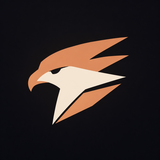
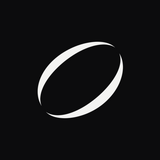
Refine Auren identity with a minimal monochrome orbit

Changed region(s): [[0.1562, 0.2188, 0.8125, 0.7812]]

diff --git a/android/app/src/main/assets/index.html b/android/app/src/main/assets/index.html
@@ -467,7 +467,7 @@
       </section>
       <small id="settingsStatus" role="status"
         >Los ajustes se guardan en este teléfono.</small
-      ><small class="version">Auren · 2.7</small>
+      ><small class="version">Auren · 2.7.1</small>
     </dialog>
     <dialog
       id="modelPicker"

diff --git a/android/branding/README.md b/android/branding/README.md
@@ -1,12 +1,16 @@
 # Auren
 
-Icono original de halcón geométrico, cobre y marfil sobre tinta oscura. El diseño anterior de cintas se descartó a petición del usuario.
+Identidad minimalista de órbita abierta: dos arcos blancos afinados sobre negro carbón. La referencia de estilo elegida por el usuario fue la sencillez monocroma de Grok. El emblema mantiene una construcción propia, sin la barra diagonal de ese logotipo.
 
 - `auren-master.png`: arte maestro generado con ImageGen; se conserva a alta resolución.
-- `res/drawable-nodpi/auren_artwork.png`: recurso raster 512 × 512 para el launcher.
+- `res/drawable-nodpi/auren_artwork.png`: primer plano transparente 512 × 512 para el launcher; derivado del arte maestro con la misma silueta.
 - `assets/auren-mark.png`: versión 160 × 160 para el chat y el menú.
 - `res/mipmap-anydpi-v26/ic_launcher.xml`: icono adaptativo; el primer plano tiene margen para las máscaras del launcher.
 - `res/mipmap-anydpi-v33/ic_launcher.xml`: añade la variante temática monocroma.
-- `res/drawable/ic_launcher.xml`: silueta vectorial monocroma para iconos temáticos y notificaciones.
+- `res/drawable/ic_launcher_monochrome.xml`: misma silueta y escala del primer plano, para iconos temáticos.
+- `res/drawable-nodpi/auren_notification.png`: silueta blanca con margen propio para tamaños pequeños.
+- `res/drawable/ic_launcher.xml`: recurso de notificación que usa esa silueta.
+
+La órbita queda dentro del área central del icono adaptativo, con margen para recortes circulares y esquinas redondeadas. Los PNG de distribución se obtienen del maestro con ImageMagick: máscara de luminancia, transparencia y tamaños de recurso; no se añaden elementos nuevos al emblema.
 
 Las rutas `res/` y `assets/` son relativas a `android/app/src/main/`. El package ID y la clave de firma permanecen iguales para actualizar la app existente.

diff --git a/README.md b/README.md
@@ -1,6 +1,6 @@
-# Auren · Android 2.7
+# Auren · Android 2.7.1
 
-Auren es el nuevo nombre de AI Local. Mantiene `com.ailocal.app`, la firma de actualización, los modelos descargados, el historial y los ajustes. Su nuevo icono es un halcón geométrico en cobre y marfil sobre fondo oscuro, con recursos adaptativos y una variante monocroma para iconos temáticos y notificaciones.
+Auren es el nuevo nombre de AI Local. Mantiene `com.ailocal.app`, la firma de actualización, los modelos descargados, el historial y los ajustes. Su icono es una órbita abierta de dos trazos blancos sobre negro, con una identidad minimalista. Incluye recursos adaptativos y una variante monocroma para iconos temáticos y notificaciones.
 
 Asistente Android con inferencia **dentro de la aplicación**, sin Termux, Python, Ollama ni servidores. La nueva app nativa se encuentra en `android/`; el prototipo Python se conserva para escritorio.
 
